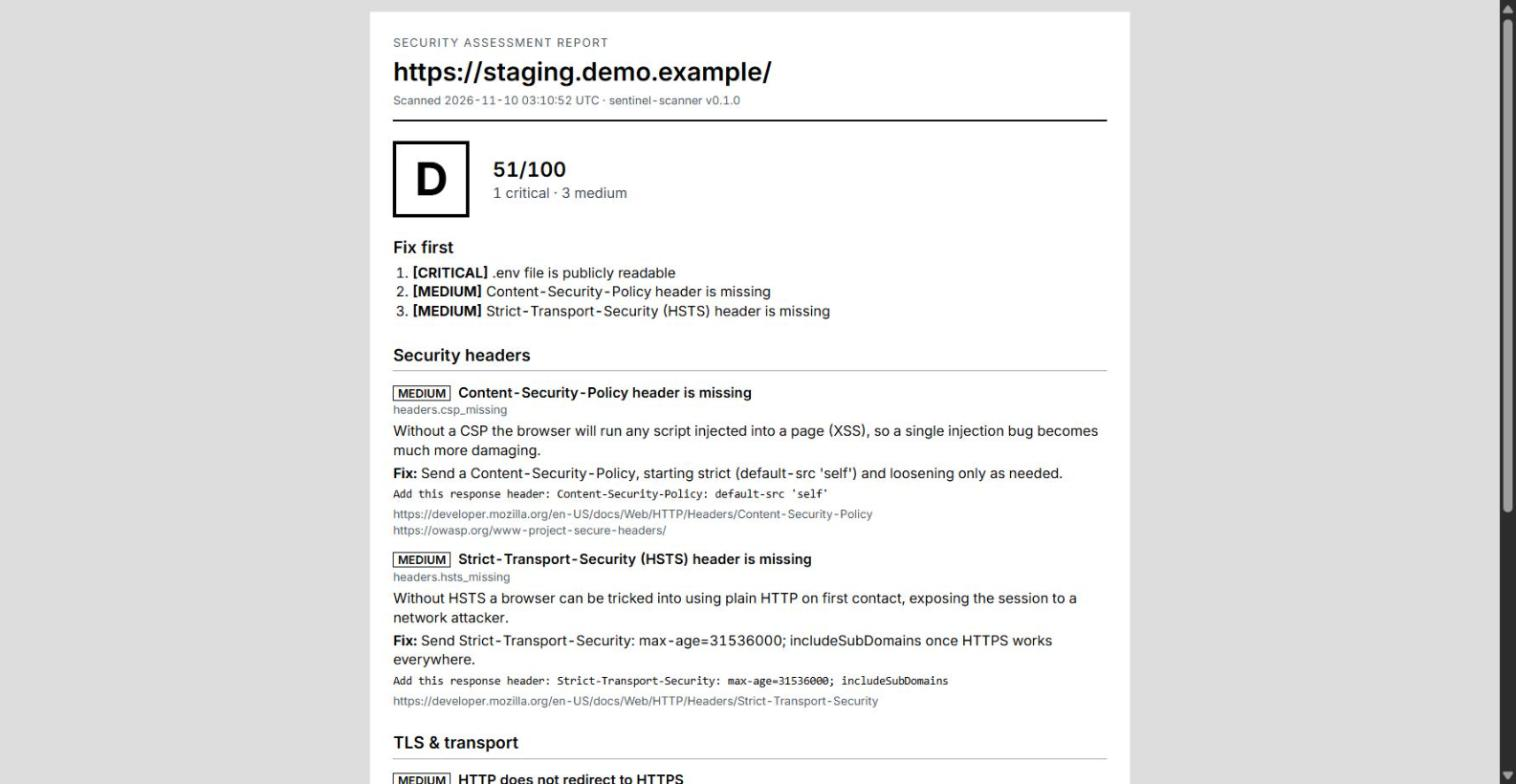
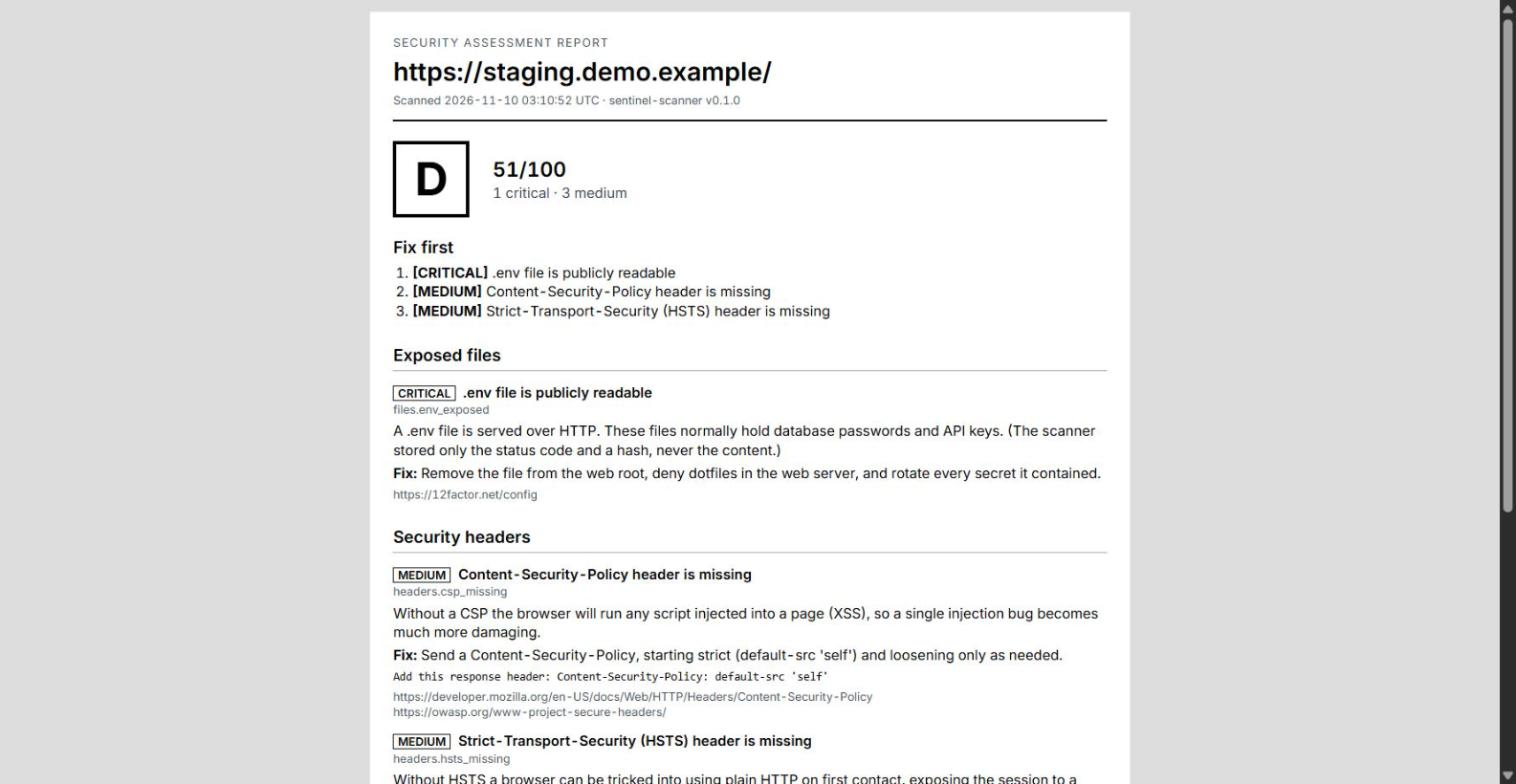
docs: retake admin screenshots, add users, refresh PDF report preview (#21)
API keys now shows the Active state (it showed Resolved before the fix) without leftover test
keys; adds the users page; the PDF report preview shows the new worst-first section order.
User email in the top bar is masked.

Changed region(s): [[0.248, 0.4898, 0.7441, 1.0], [0.248, 0.4286, 0.341, 0.4592]]

diff --git a/README.md b/README.md
@@ -32,8 +32,8 @@ Role-aware: viewers read, analysts triage and run incidents, admins manage users
 | ![Alert](docs/screenshots/alert-detail.png)             | ![Incident](docs/screenshots/incident-detail.jpg)   |
 | ![Scans](docs/screenshots/scans.jpg)                    | ![Scan report](docs/screenshots/scan-report.jpg)    |
 | ![Fix snippets](docs/screenshots/scan-fix-snippets.jpg) | ![PDF report](docs/screenshots/scan-pdf-report.jpg) |
-| ![Rules](docs/screenshots/alert-rules.png)              |                                                     |
-| ![Sign in](docs/screenshots/sign-in.png)                |                                                     |
+| ![Rules](docs/screenshots/alert-rules.jpg)              | ![API keys](docs/screenshots/api-keys.jpg)          |
+| ![Users](docs/screenshots/users.jpg)                    | ![Sign in](docs/screenshots/sign-in.png)            |
 
 The PDF report is the print layout of a scan ("Export PDF" > Save as PDF). The data is the built-in demo seed
 (`npm run db:seed:demo` in sentinel-api), which uses reserved `*.demo.example` domains and documentation-range IPs.
